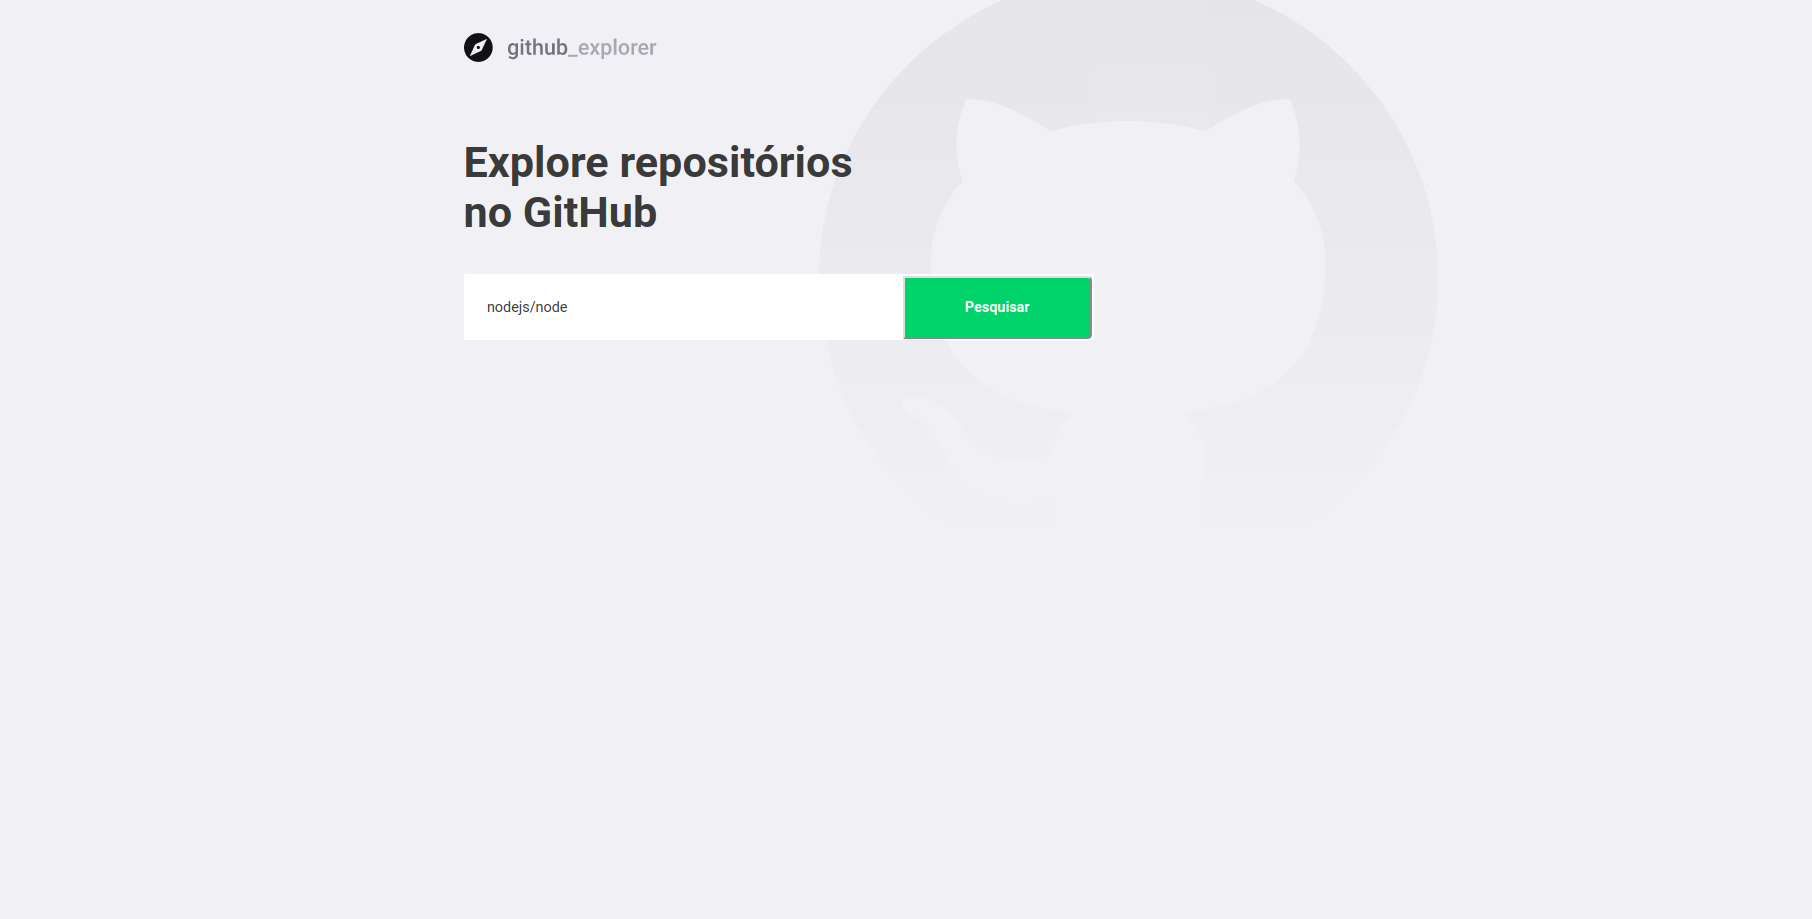
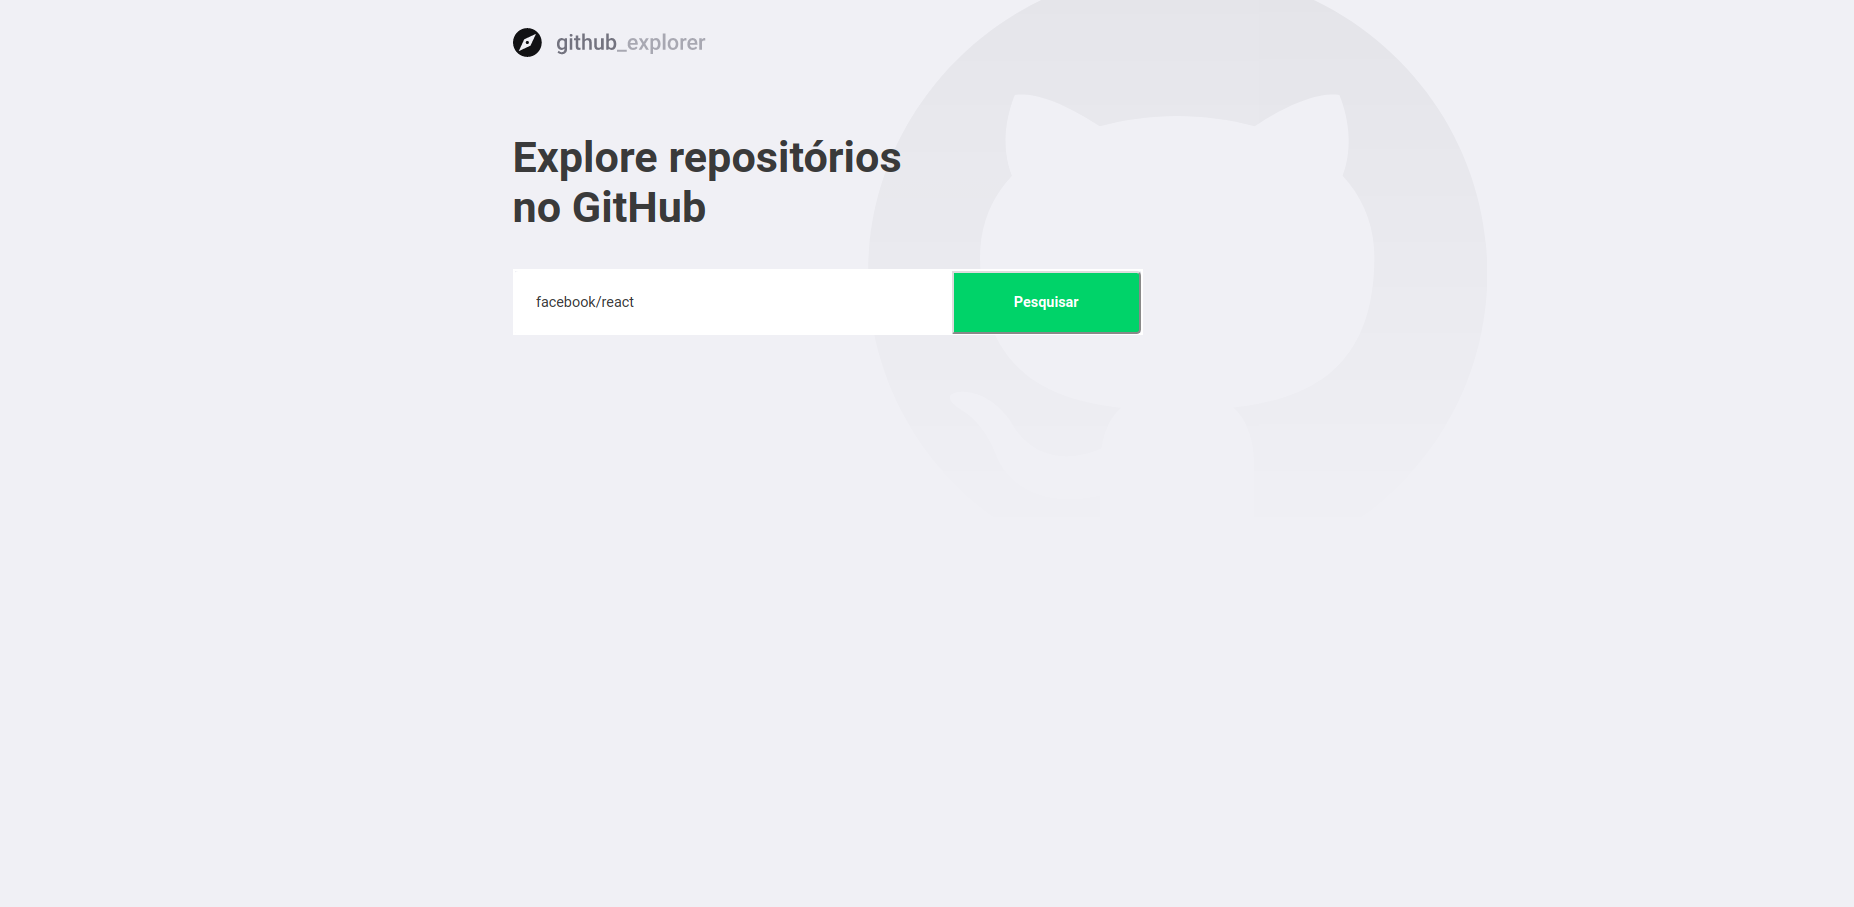
Making Readme

diff --git a/README.md b/README.md
@@ -90,11 +90,14 @@ yarn start
 ## Usage
 
 1. After running the code, you will be in main page:
+
 [![Product Name Screen Shot Main][main-screenshot]](https://github.com/MatheusSanchez/GitHubExplorer)
 
 2. The search bar is simple, you have to write an Username and a name of an repository (in the following example you will search information about [NodeJs](https://github.com/nodejs/node) Repository);
 
 [![Product Name Screen Shot Main][search-screenshot]](https://github.com/MatheusSanchez/GitHubExplorer)
+
+[![Product Name Screen Shot Main][searched-screenshot]](https://github.com/MatheusSanchez/GitHubExplorer)
 
 
 
@@ -148,3 +151,5 @@ Project Link: [https://github.com/MatheusSanchez/GitHubExplorer](https://github.
 
 [product-screenshot]: images/screenshot.png
 [main-screenshot]: images/main_page.png
+[search-screenshot]: images/search-screenshot.png
+[searched-screenshot]: images/searched-screenshot.png
